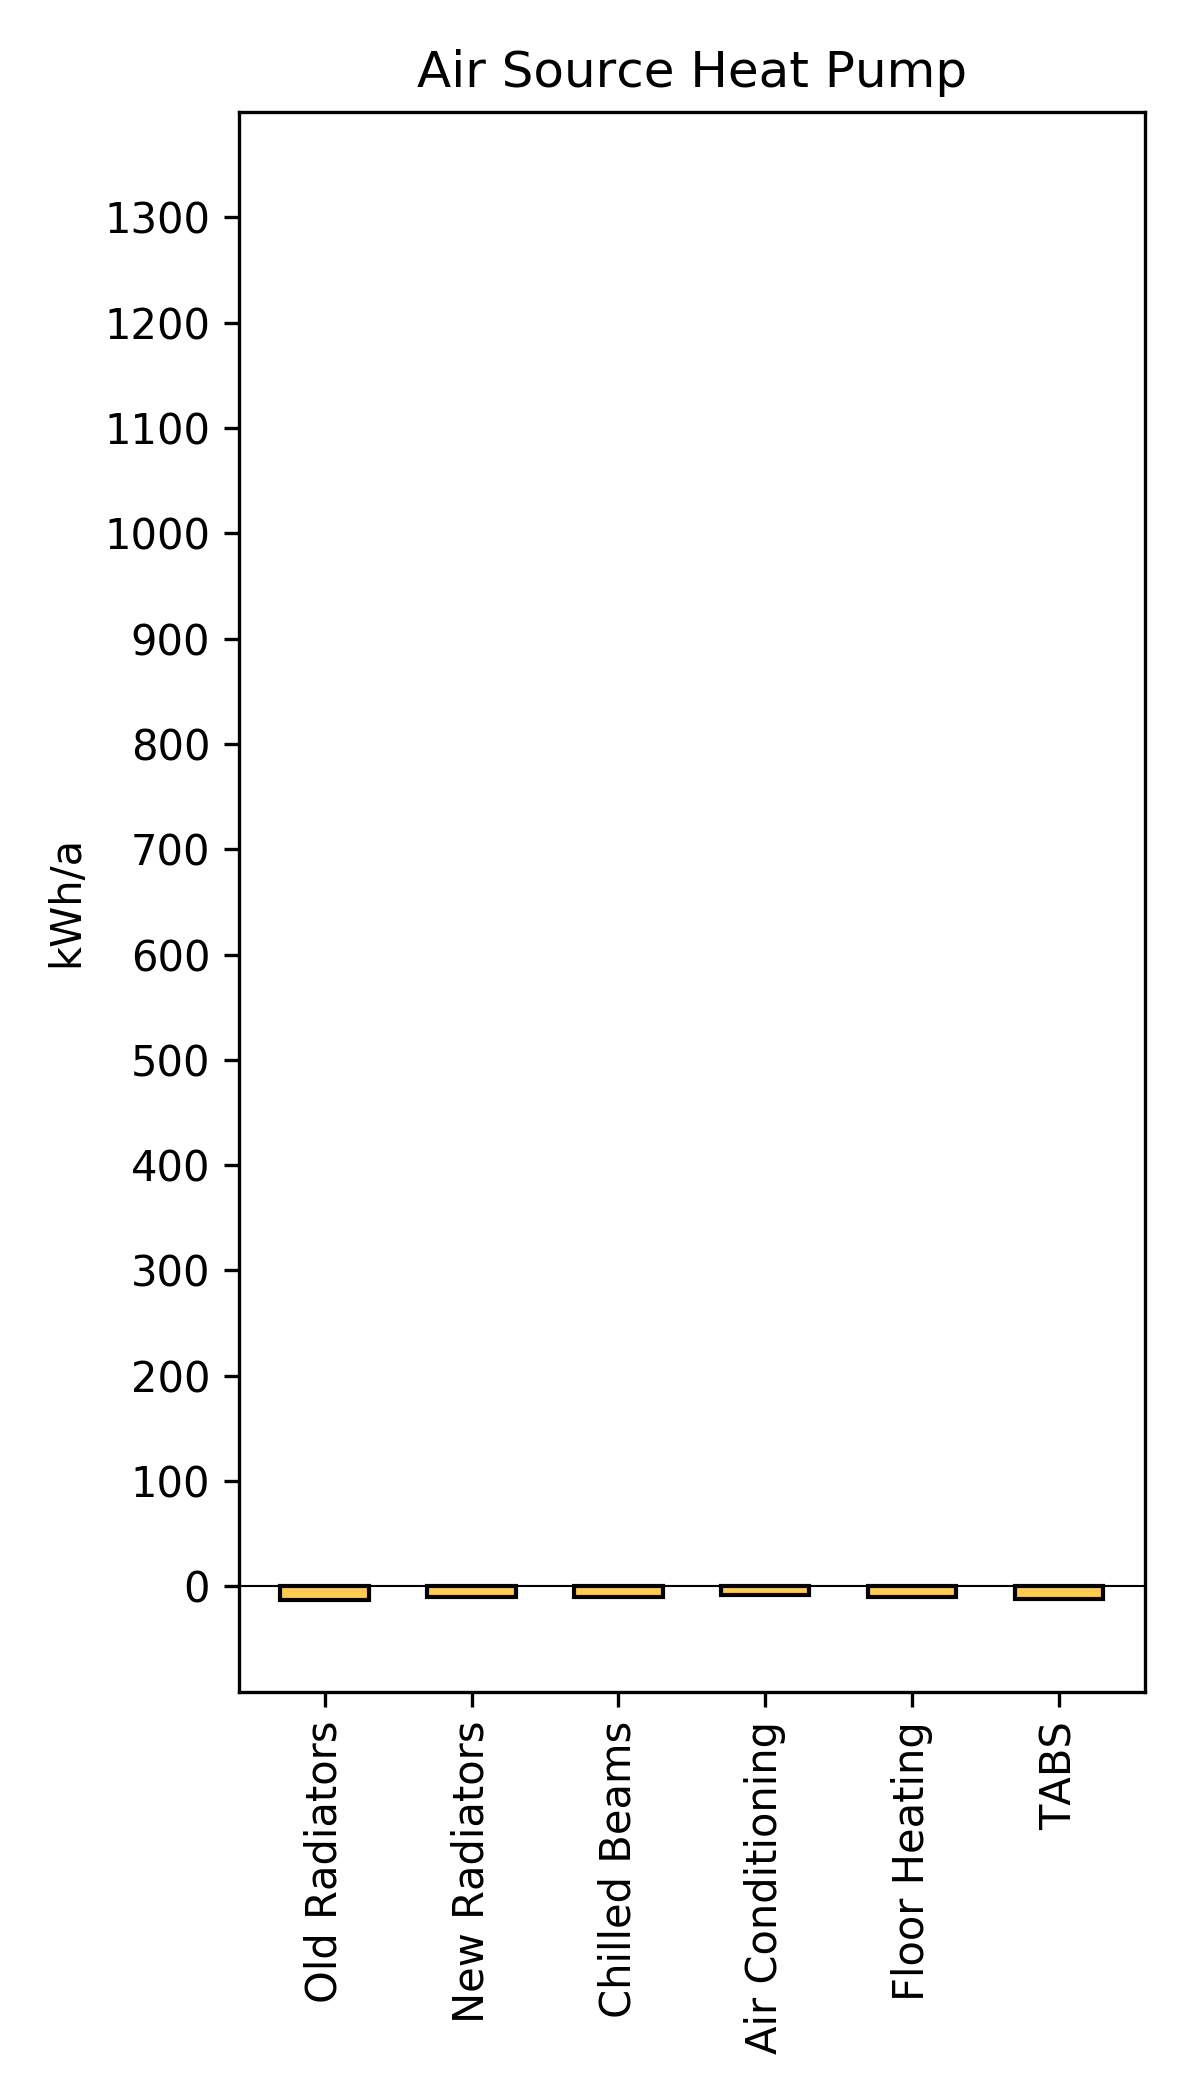
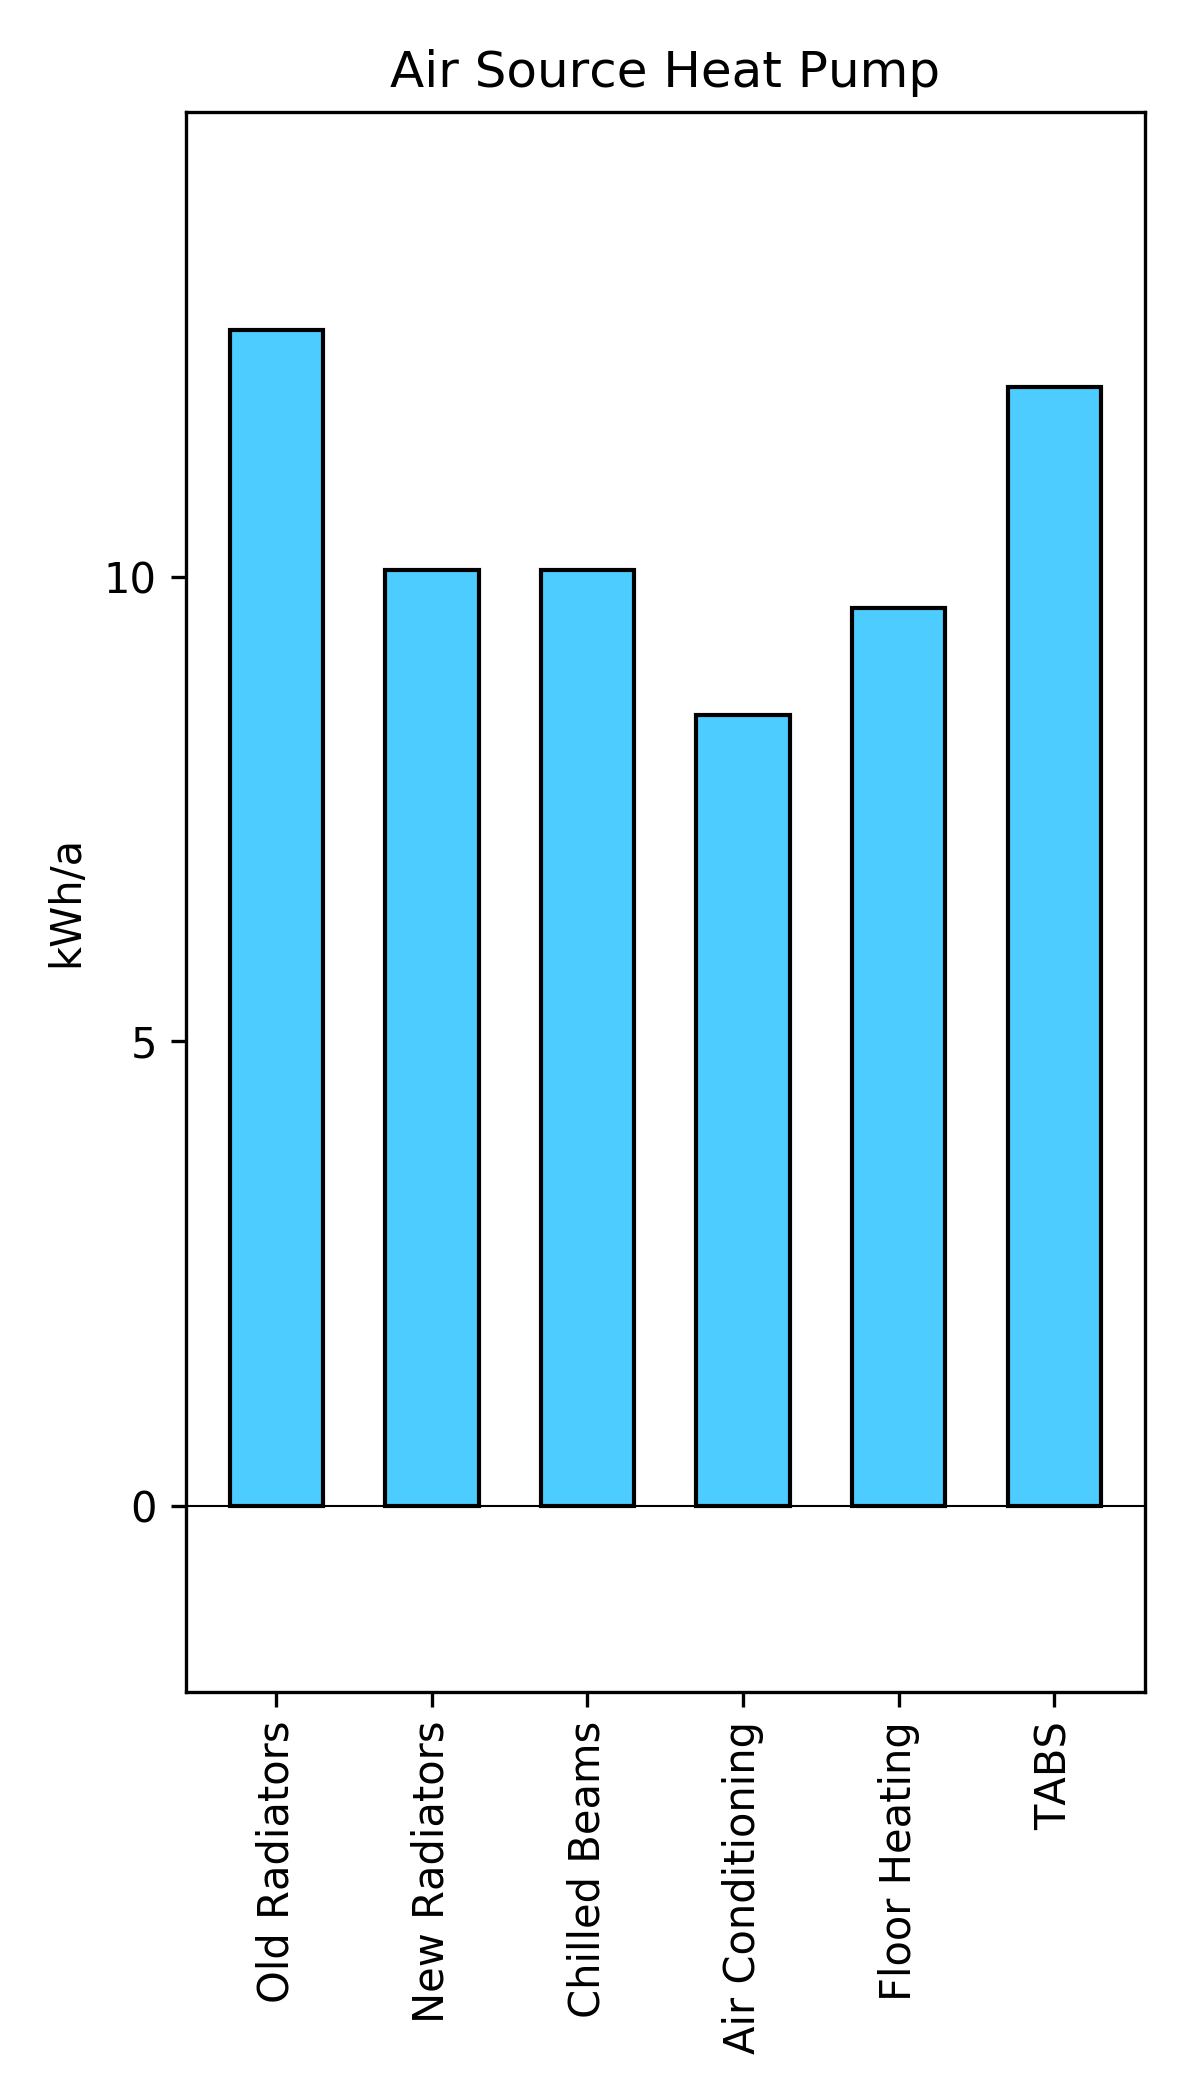
Results +-reasonable, implementation in ASF next step

diff --git a/5R1C_ISO_simulator/supplySystem.py b/5R1C_ISO_simulator/supplySystem.py
@@ -112,7 +112,7 @@ class HeatPumpAir(SupplyBuilder):
         if self.has_heating_demand:                                   #Heating
             heater.electricityIn = self.Load/(0.4*(self.supplyTemperature+273)/(self.supplyTemperature-self.theta_e))
         else:                                               #Cooling
-            heater.electricityIn = self.Load/(0.4*(self.supplyTemperature+273)/(self.theta_e-self.SupplyTemperature))
+            heater.electricityIn = self.Load/(0.4*(self.supplyTemperature+273)/(self.theta_e-self.supplyTemperature))
         heater.fossilsIn = 0    
         heater.electricityOut = 0
         return heater
@@ -127,7 +127,7 @@ class HeatPumpWater(SupplyBuilder):
         if self.has_heating_demand:                                   #Heating
             heater.electricityIn = self.Load/(0.5*(self.supplyTemperature+273)/(self.supplyTemperature-7))
         else:                                               #Cooling 
-            if self.supplyTemperature > 12:                 #Only by pumping 
+            if self.supplyTemperature > 11.9:                 #Only by pumping 
                 heater.electricityIn = self.Load*0.1
             else:                                           #Heat Pump active
                 heater.electricityIn = self.Load/(0.5*(self.supplyTemperature+273)/(12-self.supplyTemperature))
@@ -145,7 +145,7 @@ class HeatPumpGround(SupplyBuilder):
         if self.has_heating_demand:                                   #Heating
             heater.electricityIn = self.Load/(0.45*(self.supplyTemperature+273)/(self.supplyTemperature-7))
         else:                                              #Cooling 
-            if self.supplyTemperature > 12:                 #Only by pumping 
+            if self.supplyTemperature > 11.9:                 #Only by pumping 
                 heater.electricityIn = self.Load*0.1
             else:                                           #Heat Pump active
                 heater.electricityIn = self.Load/(0.45*(self.supplyTemperature+273)/(12-self.supplyTemperature))

diff --git a/5R1C_ISO_simulator/systemsMainSimulation.py b/5R1C_ISO_simulator/systemsMainSimulation.py
@@ -166,16 +166,16 @@ for hp in ind:
     
     mp.figure(figsize=(4,7))
      
-    p1 = mp.bar(indem, coolingkWh, color = (1, 0.8, 0.3), edgecolor = 'k', width = 0.6)
+    p1 = mp.bar(indem, coolingkWh, color = (0.3, 0.8, 1), edgecolor = 'k', width = 0.6)
 #    p2 = mp.bar(indem, coolingkWh, color = (1, 0.9, 0.1), edgecolor = 'k', width = 0.6)
 #    p3 = mp.bar(indem, eOutNegkWh, color = (0.5,0.9,0), edgecolor = 'k', width = 0.6)
     
     mp.ylabel('kWh/a')
     mp.title(heatPumps[hp].name)
     mp.xticks(indem, names, rotation='vertical')
-    mp.yticks(np.arange(0, 1301, 100))
+    mp.yticks(np.arange(0, 11, 5))
 #    mp.legend((p1[0], p2[0]), ('Fossils Consumption', 'Electricity Consumption'))
-    mp.ylim([-100,1400])
+    mp.ylim([-2,15])
     mp.margins(0.05)
     mp.axhline(0, color='k', linewidth=0.5)
     mp.tight_layout()
